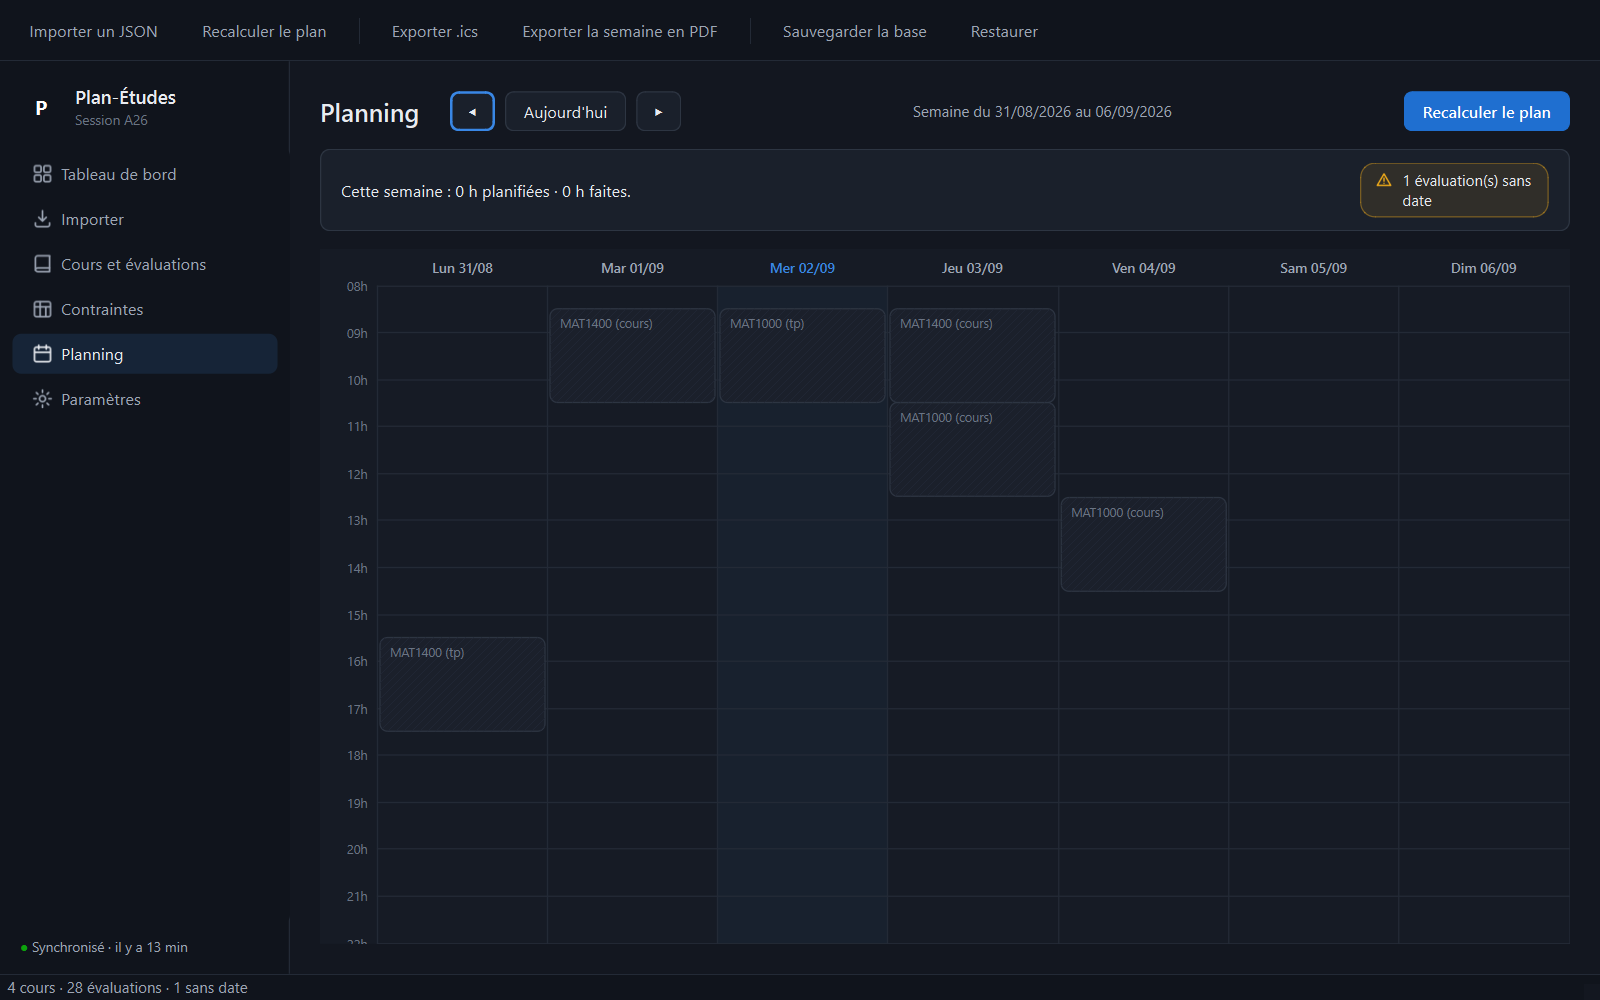
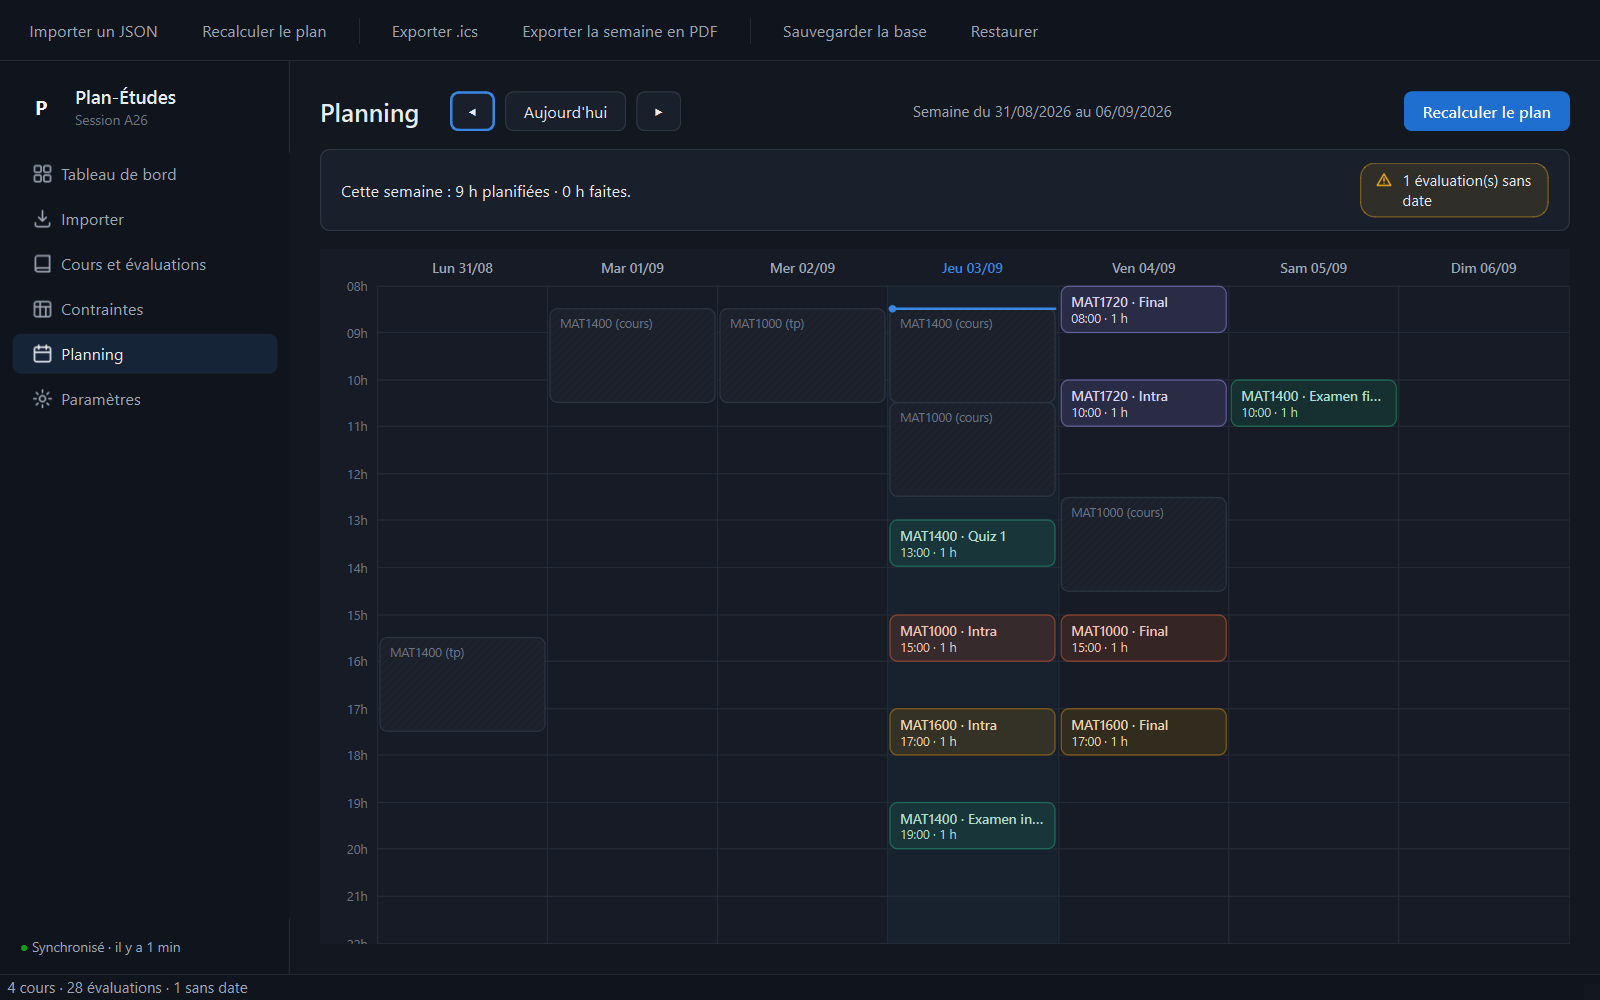
phase13: elide long block labels, refresh screenshots, worklog for merged phases

diff --git a/src/planner/ui/widgets/week_calendar.py b/src/planner/ui/widgets/week_calendar.py
@@ -13,7 +13,7 @@ from dataclasses import dataclass
 from datetime import date, datetime, time, timedelta
 
 from PySide6.QtCore import QPoint, QRect, Qt, Signal
-from PySide6.QtGui import QBrush, QColor, QFont, QPainter, QPen
+from PySide6.QtGui import QBrush, QColor, QFont, QFontMetrics, QPainter, QPen
 from PySide6.QtWidgets import QWidget
 
 from planner.core.models import WEEKDAYS
@@ -232,8 +232,11 @@ class WeekCalendar(QWidget):
             suffix = STATUS_SUFFIX.get(block.status, "")
             inner = rect.adjusted(self.PAD_X, self.PAD_Y, -self.PAD_X, -self.PAD_Y)
             painter.setFont(label_font)
-            painter.drawText(inner, Qt.AlignTop | Qt.AlignLeft | Qt.TextWordWrap,
-                             f"{prefix}{block.label}{suffix}")
+            # Titre sur une seule ligne, élidé : le retour à la ligne des titres
+            # longs (« Examen intra ») chevauchait la ligne d'heure en bas.
+            label = QFontMetrics(label_font).elidedText(
+                f"{prefix}{block.label}{suffix}", Qt.ElideRight, inner.width())
+            painter.drawText(inner, Qt.AlignTop | Qt.AlignLeft, label)
             duration = (block.end_at - block.start_at).total_seconds() / 3600
             painter.setFont(time_font)
             painter.drawText(inner, Qt.AlignBottom | Qt.AlignLeft,

diff --git a/WORKLOG.md b/WORKLOG.md
@@ -4,6 +4,18 @@ Une entrée par tâche terminée, la plus récente en haut.
 
 ---
 
+## 2026-09-03 — Finition post-merge (phases 11+12+13 sur main)
+
+- Merge des branches phase11-curve, phase12-ics, phase13-ui dans `main` ; pytest 136 verts
+  (Postgres inclus), ruff propre.
+- Calendrier : titres de blocs élidés sur une ligne (les titres longs « Examen intra/final »
+  chevauchaient la ligne d'heure).
+- Recalcul appliqué sur la base réelle avec le nouveau moteur : 175 blocs, 9-17 h/semaine
+  réguliers, couverture 100 % (sauvegarde : data/plan_etudes.avant-recalcul-20260903.db).
+- Captures d'écran régénérées avec le plan peuplé (screenshots/).
+
+---
+
 ## 2026-09-02 — Phase 13 : refonte visuelle (thème sombre × bleu UdeM)
 
 - **Jetons** : `ui/theme.py` centralise fonds (#131720/#10141c/#161b25/#1a202b),
